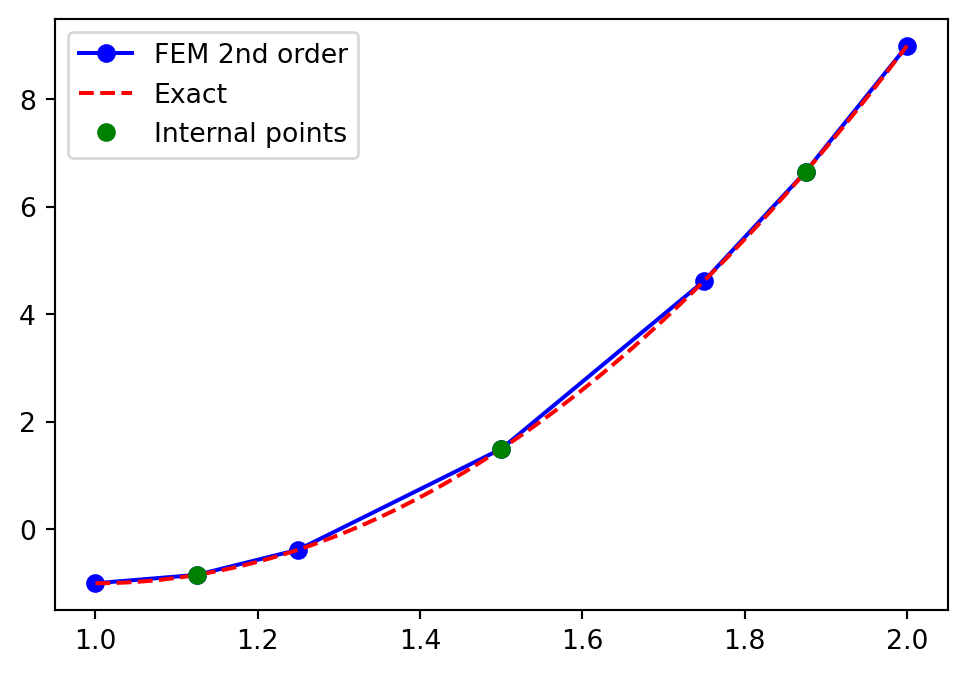
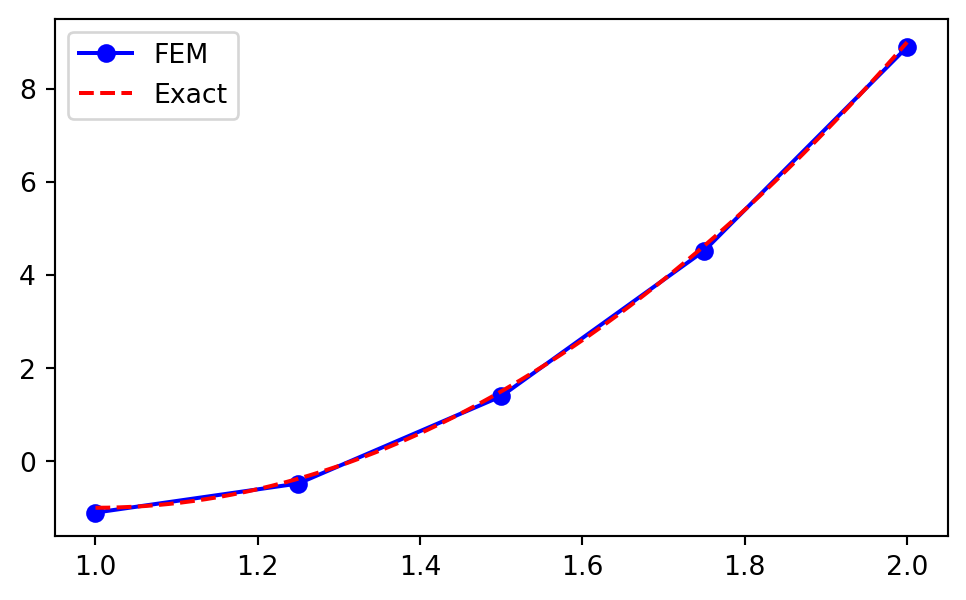
Update documentation

diff --git a/fem.html b/fem.html
@@ -447,7 +447,7 @@ u_N(x) = \sum_{i=0}^N \hat{u}_i \psi_i(x)
 <div class="columns">
 <div class="column">
 <p>5 <strong>global</strong> basis functions</p>
-<div id="f62a4b7b" class="cell" data-execution_count="1">
+<div id="92df35a5" class="cell" data-execution_count="1">
 <div class="cell-output cell-output-display">
 <div>
 <figure>
@@ -458,7 +458,7 @@ u_N(x) = \sum_{i=0}^N \hat{u}_i \psi_i(x)
 </div>
 </div><div class="column">
 <p>2 <strong>local</strong> piecewise linear basis functions</p>
-<div id="a8e6a0e3" class="cell" data-execution_count="2">
+<div id="7c5517d0" class="cell" data-execution_count="2">
 <div class="cell-output cell-output-display">
 <div>
 <figure>
@@ -488,7 +488,7 @@ u_N(x) = \sum_{i=0}^N \hat{u}_i \psi_i(x)
 </section>
 <section id="piecewise-linear-basis-functions-lead-to-piecewise-linear-approximations-small-u_nx" class="slide level2 smaller">
 <h2>Piecewise linear basis functions lead to piecewise linear approximations <span class="math inline">\(\small u_N(x)\)</span></h2>
-<div id="a19b95f5" class="cell" data-execution_count="3">
+<div id="43a07dc0" class="cell" data-execution_count="3">
 <div class="cell-output cell-output-display">
 <div>
 <figure>
@@ -504,8 +504,24 @@ u_N(x) = \sum_{i=0}^N \hat{u}_i \psi_i(x)
 </section>
 <section id="the-finite-element-method-is-especially-well-suited-for-unstructured-meshes-in-complex-geometries" class="slide level2 smaller">
 <h2>The finite element method is especially well suited for unstructured meshes in complex geometries</h2>
-
-<img data-src="./figures/structured-unstructured.png" class="quarto-figure quarto-figure-center r-stretch"><p>But in this course we will learn FEM using first simple meshes that look like the structured.</p>
+<div class="columns">
+<div class="column">
+<h3 id="structured-mesh">Structured mesh</h3>
+<div id="aa5013aa" class="cell" data-execution_count="4">
+<div class="cell-output cell-output-display">
+<div>
+<figure>
+<p><img data-src="fem_files/figure-revealjs/cell-5-output-1.png" width="391" height="389"></p>
+</figure>
+</div>
+</div>
+</div>
+</div><div class="column">
+<h3 id="unstructured-mesh">Unstructured mesh</h3>
+<p><img data-src="./figures/dolfin_mesh.png" height="400"></p>
+</div>
+</div>
+<p>But in this course we will learn FEM using simple structured meshes.</p>
 </section>
 <section id="the-finite-element-mesh" class="slide level2 smaller">
 <h2>The finite element mesh</h2>
@@ -594,11 +610,11 @@ a_{ij} = \sum_{e=0}^{N_e-1} {a}_{ij}^{(e)} =  \sum_{e=0}^{N_e-1} \int_{\Omega^{(
 <div class="column">
 <p>The matrix <span class="math inline">\({A}^{(2)}\)</span> will have only 4 non-zero items. So it is really a waste of memory using an <span class="math inline">\((N+1)\times (N+1)\)</span> matrix.</p>
 </div><div class="column">
-<div id="2a3880c9" class="cell" data-execution_count="4">
+<div id="490ba6c2" class="cell" data-execution_count="5">
 <div class="cell-output cell-output-display">
 <div class="quarto-figure quarto-figure-center">
 <figure>
-<p><img data-src="fem_files/figure-revealjs/cell-5-output-1.png" class="quarto-figure quarto-figure-center" width="167" height="189"></p>
+<p><img data-src="fem_files/figure-revealjs/cell-6-output-1.png" class="quarto-figure quarto-figure-center" width="167" height="189"></p>
 </figure>
 </div>
 </div>
@@ -612,11 +628,11 @@ a_{ij} = \sum_{e=0}^{N_e-1} {a}_{ij}^{(e)} =  \sum_{e=0}^{N_e-1} \int_{\Omega^{(
 <p><span class="math display">\[
 q(e, r) = de+r
 \]</span></p>
-<div id="4107a1e3" class="cell" data-execution_count="5">
+<div id="89935d55" class="cell" data-execution_count="6">
 <div class="cell-output cell-output-display">
 <div class="quarto-figure quarto-figure-center">
 <figure>
-<p><img data-src="fem_files/figure-revealjs/cell-6-output-1.png" class="quarto-figure quarto-figure-center" width="1034" height="241"></p>
+<p><img data-src="fem_files/figure-revealjs/cell-7-output-1.png" class="quarto-figure quarto-figure-center" width="1034" height="241"></p>
 </figure>
 </div>
 </div>
@@ -727,11 +743,11 @@ X_r = -1 + \frac{2r}{d}, \quad r = 0, 1, \ldots, d
 \ell_1(X) = (1-X^2), \quad
 \ell_2(X) = \frac{1}{2}X(1+X)
 \]</span></p>
-<div id="5904afa8" class="cell" data-execution_count="6">
+<div id="97236e2f" class="cell" data-execution_count="7">
 <div class="cell-output cell-output-display">
 <div class="quarto-figure quarto-figure-center">
 <figure>
-<p><img data-src="fem_files/figure-revealjs/cell-7-output-1.png" class="quarto-figure quarto-figure-center" width="702" height="422"></p>
+<p><img data-src="fem_files/figure-revealjs/cell-8-output-1.png" class="quarto-figure quarto-figure-center" width="702" height="422"></p>
 </figure>
 </div>
 </div>
@@ -745,11 +761,11 @@ X_r = -1 + \frac{2r}{d}, \quad r = 0, 1, \ldots, d
 \ell_2(X) = -\frac{27}{16}(X-1)(X+\tfrac{1}{3})(X+1) &amp; \ell_3(X) = \frac{9}{16}(X-\tfrac{1}{3})(X+\tfrac{1}{3})(X+1)
 \end{matrix}
 \]</span></p>
-<div id="2c59bd96" class="cell" data-execution_count="7">
+<div id="eb23c7de" class="cell" data-execution_count="8">
 <div class="cell-output cell-output-display">
 <div class="quarto-figure quarto-figure-center">
 <figure>
-<p><img data-src="fem_files/figure-revealjs/cell-8-output-1.png" class="quarto-figure quarto-figure-center" width="788" height="397"></p>
+<p><img data-src="fem_files/figure-revealjs/cell-9-output-1.png" class="quarto-figure quarto-figure-center" width="788" height="397"></p>
 </figure>
 </div>
 </div>
@@ -797,30 +813,30 @@ X_r = -1 + \frac{2r}{d}, \quad r = 0, 1, \ldots, d
 <section id="sympy-implementation-element-mass-matrix" class="slide level2 smaller">
 <h2>Sympy implementation element mass matrix</h2>
 <p>Linear (<span class="math inline">\(d=1\)</span>)</p>
-<div id="91235ce3" class="cell" data-execution_count="8">
+<div id="291d3326" class="cell" data-execution_count="9">
 <div class="sourceCode cell-code" id="cb1"><pre class="sourceCode numberSource python number-lines code-with-copy"><code class="sourceCode python"><span id="cb1-1"><a></a>h <span class="op">=</span> sp.Symbol(<span class="st">'h'</span>)</span>
 <span id="cb1-2"><a></a>l <span class="op">=</span> Lagrangebasis([<span class="op">-</span><span class="dv">1</span>, <span class="dv">1</span>])</span>
 <span id="cb1-3"><a></a>ae <span class="op">=</span> <span class="kw">lambda</span> r, s: sp.integrate(l[r]<span class="op">*</span>l[s], (x, <span class="op">-</span><span class="dv">1</span>, <span class="dv">1</span>))</span>
 <span id="cb1-4"><a></a>A1e <span class="op">=</span> h<span class="op">/</span><span class="dv">2</span><span class="op">*</span>sp.Matrix([[ae(<span class="dv">0</span>, <span class="dv">0</span>), ae(<span class="dv">0</span>, <span class="dv">1</span>)],[ae(<span class="dv">1</span>, <span class="dv">0</span>), ae(<span class="dv">1</span>, <span class="dv">1</span>)]])</span>
 <span id="cb1-5"><a></a>A1e</span></code><button title="Copy to Clipboard" class="code-copy-button"><i class="bi"></i></button></pre></div>
-<div class="cell-output cell-output-display cell-output-markdown" data-execution_count="148">
+<div class="cell-output cell-output-display cell-output-markdown" data-execution_count="125">
 <p><span class="math inline">\(\displaystyle \left[\begin{matrix}\frac{h}{3} &amp; \frac{h}{6}\\\frac{h}{6} &amp; \frac{h}{3}\end{matrix}\right]\)</span></p>
 </div>
 </div>
 <p>Quadratic (<span class="math inline">\(d=2\)</span>)</p>
-<div id="fdd066d8" class="cell" data-execution_count="9">
+<div id="09782420" class="cell" data-execution_count="10">
 <div class="sourceCode cell-code" id="cb2"><pre class="sourceCode numberSource python number-lines code-with-copy"><code class="sourceCode python"><span id="cb2-1"><a></a>l <span class="op">=</span> Lagrangebasis([<span class="op">-</span><span class="dv">1</span>, <span class="dv">0</span>, <span class="dv">1</span>])</span>
 <span id="cb2-2"><a></a>ae <span class="op">=</span> <span class="kw">lambda</span> r, s: sp.integrate(l[r]<span class="op">*</span>l[s], (x, <span class="op">-</span><span class="dv">1</span>, <span class="dv">1</span>))</span>
 <span id="cb2-3"><a></a>A2e <span class="op">=</span> h<span class="op">/</span><span class="dv">2</span><span class="op">*</span>sp.Matrix(np.array([[ae(i, j) <span class="cf">for</span> i <span class="kw">in</span> <span class="bu">range</span>(<span class="dv">3</span>) <span class="cf">for</span> j <span class="kw">in</span> <span class="bu">range</span>(<span class="dv">3</span>)]]).reshape(<span class="dv">3</span>, <span class="dv">3</span>))</span>
 <span id="cb2-4"><a></a>A2e</span></code><button title="Copy to Clipboard" class="code-copy-button"><i class="bi"></i></button></pre></div>
-<div class="cell-output cell-output-display cell-output-markdown" data-execution_count="149">
+<div class="cell-output cell-output-display cell-output-markdown" data-execution_count="126">
 <p><span class="math inline">\(\displaystyle \left[\begin{matrix}\frac{2 h}{15} &amp; \frac{h}{15} &amp; - \frac{h}{30}\\\frac{h}{15} &amp; \frac{8 h}{15} &amp; \frac{h}{15}\\- \frac{h}{30} &amp; \frac{h}{15} &amp; \frac{2 h}{15}\end{matrix}\right]\)</span></p>
 </div>
 </div>
 </section>
 <section id="complete-assembly-implementation" class="slide level2 smaller">
 <h2>Complete assembly implementation</h2>
-<div id="51771b16" class="cell" data-execution_count="10">
+<div id="8a05b5dd" class="cell" data-execution_count="11">
 <div class="sourceCode cell-code" id="cb3"><pre class="sourceCode numberSource python number-lines code-with-copy"><code class="sourceCode python"><span id="cb3-1"><a></a>Ae <span class="op">=</span> [A1e, A2e] <span class="co"># previously computed</span></span>
 <span id="cb3-2"><a></a></span>
 <span id="cb3-3"><a></a><span class="kw">def</span> get_element_boundaries(xj, e, d<span class="op">=</span><span class="dv">1</span>):</span>
@@ -845,7 +861,7 @@ X_r = -1 + \frac{2r}{d}, \quad r = 0, 1, \ldots, d
 <span id="cb3-22"><a></a>        A[s0, s0] <span class="op">+=</span> np.array(Ae[d<span class="op">-</span><span class="dv">1</span>].subs(h, hj), dtype<span class="op">=</span><span class="bu">float</span>)</span>
 <span id="cb3-23"><a></a>    <span class="cf">return</span> A</span></code><button title="Copy to Clipboard" class="code-copy-button"><i class="bi"></i></button></pre></div>
 </div>
-<div id="74a930c4" class="cell columns column-output-location" data-execution_count="11">
+<div id="b0d4c9fe" class="cell columns column-output-location" data-execution_count="12">
 <div class="column">
 <div class="sourceCode cell-code" id="cb4"><pre class="sourceCode numberSource python number-lines code-with-copy"><code class="sourceCode python"><span id="cb4-1"><a></a>N <span class="op">=</span> <span class="dv">4</span></span>
 <span id="cb4-2"><a></a>xj <span class="op">=</span> np.linspace(<span class="dv">1</span>, <span class="dv">2</span>, N<span class="op">+</span><span class="dv">1</span>)</span>
@@ -864,7 +880,7 @@ X_r = -1 + \frac{2r}{d}, \quad r = 0, 1, \ldots, d
 </section>
 <section id="higher-order-mass-matrix" class="slide level2 smaller">
 <h2>Higher order mass matrix</h2>
-<div id="b3400e90" class="cell" data-execution_count="12">
+<div id="7c76b5a1" class="cell" data-execution_count="13">
 <div class="sourceCode cell-code" id="cb6"><pre class="sourceCode numberSource python number-lines code-with-copy"><code class="sourceCode python"><span id="cb6-1"><a></a>N <span class="op">=</span> <span class="dv">8</span></span>
 <span id="cb6-2"><a></a>xj <span class="op">=</span> np.linspace(<span class="dv">1</span>, <span class="dv">2</span>, N<span class="op">+</span><span class="dv">1</span>)</span>
 <span id="cb6-3"><a></a>A <span class="op">=</span> assemble_mass(xj, d<span class="op">=</span><span class="dv">2</span>)</span>
@@ -901,11 +917,11 @@ X_r = -1 + \frac{2r}{d}, \quad r = 0, 1, \ldots, d
 </div>
 </div>
 </div><div class="column">
-<div id="ff8fdd12" class="cell" data-execution_count="13">
+<div id="329e68f2" class="cell" data-execution_count="14">
 <div class="cell-output cell-output-display">
 <div class="quarto-figure quarto-figure-left">
 <figure>
-<p><img data-src="fem_files/figure-revealjs/cell-14-output-1.png" class="quarto-figure quarto-figure-left" width="315" height="315"></p>
+<p><img data-src="fem_files/figure-revealjs/cell-15-output-1.png" class="quarto-figure quarto-figure-left" width="315" height="315"></p>
 </figure>
 </div>
 </div>
@@ -958,7 +974,7 @@ b_{q(e, r)} \mathrel{+}= \tilde{b}_r^{(e)}
 </section>
 <section id="implementation-small-boldsymbolbe" class="slide level2 smaller">
 <h2>Implementation <span class="math inline">\(\small \boldsymbol{b}^{(e)}\)</span></h2>
-<div id="fce704d3" class="cell" data-execution_count="14">
+<div id="c5dfcd4f" class="cell" data-execution_count="15">
 <div class="sourceCode cell-code" id="cb8" data-code-line-numbers="|19-24"><pre class="sourceCode numberSource python number-lines code-with-copy"><code class="sourceCode python"><span id="cb8-1"><a></a><span class="kw">def</span> map_true_domain(xj, e, d<span class="op">=</span><span class="dv">1</span>, x<span class="op">=</span>x): <span class="co"># return x(X)</span></span>
 <span id="cb8-2"><a></a>    xL, xR <span class="op">=</span> get_element_boundaries(xj, e, d<span class="op">=</span>d)</span>
 <span id="cb8-3"><a></a>    hj <span class="op">=</span> get_element_length(xj, e, d<span class="op">=</span>d)</span>
@@ -1004,7 +1020,7 @@ b_{q(e, r)} \mathrel{+}= \tilde{b}_r^{(e)}
 <section id="example-small-ux-10x-12-1-x-in-1-2" class="slide level2 smaller">
 <h2>Example: <span class="math inline">\(\small u(x) = 10(x-1)^2-1, x \in [1, 2]\)</span></h2>
 <p>Use the previously implemented <code>assemble_mass</code> and <code>assemble_b</code> to find the approximation of <span class="math inline">\(u(x)\)</span> using piecewise linear functions and FEM:</p>
-<div id="f7572bcc" class="cell columns column-output-location" data-execution_count="15">
+<div id="ae388d63" class="cell columns column-output-location" data-execution_count="16">
 <div class="column">
 <div class="sourceCode cell-code" id="cb9"><pre class="sourceCode numberSource python number-lines code-with-copy"><code class="sourceCode python"><span id="cb9-1"><a></a><span class="kw">def</span> assemble(u, N, domain<span class="op">=</span>(<span class="op">-</span><span class="dv">1</span>, <span class="dv">1</span>), d<span class="op">=</span><span class="dv">1</span>, xj<span class="op">=</span><span class="va">None</span>):</span>
 <span id="cb9-2"><a></a>    mesh <span class="op">=</span> np.linspace(domain[<span class="dv">0</span>], domain[<span class="dv">1</span>], N<span class="op">+</span><span class="dv">1</span>) <span class="cf">if</span> xj <span class="kw">is</span> <span class="va">None</span> <span class="cf">else</span> xj</span>
@@ -1024,7 +1040,7 @@ b_{q(e, r)} \mathrel{+}= \tilde{b}_r^{(e)}
 <div class="cell-output cell-output-display">
 <div>
 <figure>
-<p><img data-src="fem_files/figure-revealjs/cell-16-output-1.png" width="483" height="300"></p>
+<p><img data-src="fem_files/figure-revealjs/cell-17-output-1.png" width="483" height="300"></p>
 </figure>
 </div>
 </div>
@@ -1053,7 +1069,7 @@ b_{q(e, r)} \mathrel{+}= \tilde{b}_r^{(e)}
 <p><span class="math display">\[
 x_{2i} = 1+(\cos(2 \pi i / N) + 1)/2 \quad \text{and} \quad x_{2i+1} = \frac{x_{2i}+x_{2(i+1)}}{2}
 \]</span></p>
-<div id="493eefb4" class="cell columns column-output-location" data-execution_count="16">
+<div id="b1670d25" class="cell columns column-output-location" data-execution_count="17">
 <div class="column">
 <div class="sourceCode cell-code" id="cb10"><pre class="sourceCode numberSource python number-lines code-with-copy"><code class="sourceCode python"><span id="cb10-1"><a></a>N <span class="op">=</span> <span class="dv">6</span></span>
 <span id="cb10-2"><a></a>xj <span class="op">=</span> np.zeros(N<span class="op">+</span><span class="dv">1</span>)</span>
@@ -1070,7 +1086,7 @@ x_{2i} = 1+(\cos(2 \pi i / N) + 1)/2 \quad \text{and} \quad x_{2i+1} = \frac{x_{
 <div class="cell-output cell-output-display">
 <div>
 <figure>
-<p><img data-src="fem_files/figure-revealjs/cell-17-output-1.png" width="483" height="337"></p>
+<p><img data-src="fem_files/figure-revealjs/cell-18-output-1.png" width="483" height="337"></p>
 </figure>
 </div>
 </div>
@@ -1088,7 +1104,7 @@ u_N(x) = \sum_{j=0}^N\hat{u}_j \psi_j(x)
 <p><span class="math display">\[
 u_N(x) = \sum_{r=0}^d \hat{u}_{q(e, r)} \ell_{r}(X), \quad x \in \Omega^{(e)}
 \]</span></p>
-<div id="7961e5b6" class="cell" data-execution_count="17">
+<div id="f22dacb9" class="cell" data-execution_count="18">
 <div class="sourceCode cell-code" id="cb11"><pre class="sourceCode numberSource python number-lines code-with-copy"><code class="sourceCode python"><span id="cb11-1"><a></a><span class="kw">def</span> fe_evaluate(uh, p, xj, d<span class="op">=</span><span class="dv">1</span>):</span>
 <span id="cb11-2"><a></a>    l <span class="op">=</span> Lagrangebasis(np.linspace(<span class="op">-</span><span class="dv">1</span>, <span class="dv">1</span>, d<span class="op">+</span><span class="dv">1</span>), sympy<span class="op">=</span><span class="va">False</span>)</span>
 <span id="cb11-3"><a></a>    elem <span class="op">=</span> <span class="bu">max</span>(<span class="dv">0</span>, np.argmax(p <span class="op">&lt;=</span> xj[::d])<span class="op">-</span><span class="dv">1</span>) <span class="co"># find element containing p</span></span>
@@ -1096,7 +1112,7 @@ u_N(x) = \sum_{r=0}^d \hat{u}_{q(e, r)} \ell_{r}(X), \quad x \in \Omega^{(e)}
 <span id="cb11-5"><a></a>    <span class="cf">return</span> Lagrangefunction(uh[d<span class="op">*</span>elem:d<span class="op">*</span>(elem<span class="op">+</span><span class="dv">1</span>)<span class="op">+</span><span class="dv">1</span>], l)(Xx)</span>
 <span id="cb11-6"><a></a></span>
 <span id="cb11-7"><a></a>fe_evaluate(uh, <span class="fl">1.2</span>, xj, d<span class="op">=</span><span class="dv">2</span>), <span class="dv">10</span><span class="op">*</span>(<span class="fl">1.2</span><span class="op">-</span><span class="dv">1</span>)<span class="op">**</span><span class="dv">2</span><span class="op">-</span><span class="dv">1</span></span></code><button title="Copy to Clipboard" class="code-copy-button"><i class="bi"></i></button></pre></div>
-<div class="cell-output cell-output-display" data-execution_count="157">
+<div class="cell-output cell-output-display" data-execution_count="134">
 <pre><code>(-0.600000000000000, -0.6000000000000002)</code></pre>
 </div>
 </div>
@@ -1107,7 +1123,7 @@ u_N(x) = \sum_{r=0}^d \hat{u}_{q(e, r)} \ell_{r}(X), \quad x \in \Omega^{(e)}
 u_N(x_i) = \sum_{r=0}^d \hat{u}_{q(e, r)} \ell_{r}(X(x_i)), \quad x \in \Omega^{(e)}, \quad i=0, 1, \ldots, N_d-1
 \]</span></p>
 <p>Just loop over scalar code for each point</p>
-<div id="d706c5d3" class="cell" data-execution_count="18">
+<div id="754aa137" class="cell" data-execution_count="19">
 <div class="sourceCode cell-code" id="cb13"><pre class="sourceCode numberSource python number-lines code-with-copy"><code class="sourceCode python"><span id="cb13-1"><a></a><span class="kw">def</span> fe_evaluate_v(uh, pv, xj, d<span class="op">=</span><span class="dv">1</span>):</span>
 <span id="cb13-2"><a></a>    uj <span class="op">=</span> np.zeros(<span class="bu">len</span>(pv))</span>
 <span id="cb13-3"><a></a>    <span class="cf">for</span> i, p <span class="kw">in</span> <span class="bu">enumerate</span>(pv):</span>
@@ -1115,7 +1131,7 @@ u_N(x_i) = \sum_{r=0}^d \hat{u}_{q(e, r)} \ell_{r}(X(x_i)), \quad x \in \Omega^{
 </div>
 <div class="fragment">
 <p>Alternatively, use vectorization, but not really straightforward:</p>
-<div id="ad325fb3" class="cell" data-execution_count="19">
+<div id="7ccda591" class="cell" data-execution_count="20">
 <div class="sourceCode cell-code" id="cb14"><pre class="sourceCode numberSource python number-lines code-with-copy"><code class="sourceCode python"><span id="cb14-1"><a></a><span class="kw">def</span> fe_evaluate_v(uh, pv, xj, d<span class="op">=</span><span class="dv">1</span>):</span>
 <span id="cb14-2"><a></a>    l <span class="op">=</span> Lagrangebasis(np.linspace(<span class="op">-</span><span class="dv">1</span>, <span class="dv">1</span>, d<span class="op">+</span><span class="dv">1</span>), sympy<span class="op">=</span><span class="va">False</span>)</span>
 <span id="cb14-3"><a></a>    <span class="co"># Find points inside elements</span></span>
@@ -1136,7 +1152,7 @@ u_N(x_i) = \sum_{r=0}^d \hat{u}_{q(e, r)} \ell_{r}(X(x_i)), \quad x \in \Omega^{
 <p>Compute <span class="math inline">\(L^2(\Omega)\)</span> error and compare with <strong>global</strong> Chebyshev and Legendre methods</p>
 <div class="columns">
 <div class="column">
-<div id="3504c570" class="cell" data-execution_count="20">
+<div id="4172168a" class="cell" data-execution_count="21">
 <div class="sourceCode cell-code" id="cb15"><pre class="sourceCode numberSource python number-lines code-with-copy"><code class="sourceCode python"><span id="cb15-1"><a></a><span class="kw">def</span> L2_error(uh, ue, xj, d<span class="op">=</span><span class="dv">1</span>):</span>
 <span id="cb15-2"><a></a>    yj <span class="op">=</span> np.linspace(<span class="op">-</span><span class="dv">1</span>, <span class="dv">1</span>, <span class="dv">4</span><span class="op">*</span><span class="bu">len</span>(xj))</span>
 <span id="cb15-3"><a></a>    uhj <span class="op">=</span> fe_evaluate_v(uh, yj, xj, d<span class="op">=</span>d)</span>
@@ -1158,11 +1174,11 @@ u_N(x_i) = \sum_{r=0}^d \hat{u}_{q(e, r)} \ell_{r}(X(x_i)), \quad x \in \Omega^{
 <span id="cb15-19"><a></a>    err2.append(L2_error(uh2, ue, xj, <span class="dv">2</span>))</span></code><button title="Copy to Clipboard" class="code-copy-button"><i class="bi"></i></button></pre></div>
 </div>
 </div><div class="column">
-<div id="9bd5d9f1" class="cell" data-execution_count="21">
+<div id="9ee2d290" class="cell" data-execution_count="22">
 <div class="cell-output cell-output-display">
 <div>
 <figure>
-<p><img data-src="fem_files/figure-revealjs/cell-22-output-1.png" width="438" height="286"></p>
+<p><img data-src="fem_files/figure-revealjs/cell-23-output-1.png" width="438" height="286"></p>
 </figure>
 </div>
 </div>
@@ -1251,7 +1267,7 @@ u_N(x_i) = \sum_{r=0}^d \hat{u}_{q(e, r)} \ell_{r}(X(x_i)), \quad x \in \Omega^{
 </div>
 </div><div class="column">
 <h3 id="our-implementation">Our implementation</h3>
-<div id="377abe3f" class="cell" data-execution_count="22">
+<div id="a4709e51" class="cell" data-execution_count="23">
 <div class="sourceCode cell-code" id="cb22"><pre class="sourceCode numberSource python number-lines code-with-copy"><code class="sourceCode python"><span id="cb22-1"><a></a>N <span class="op">=</span> <span class="dv">4</span> </span>
 <span id="cb22-2"><a></a>A1, b1 <span class="op">=</span> assemble(u, N, (<span class="op">-</span><span class="dv">1</span>, <span class="dv">1</span>), <span class="dv">1</span>)</span>
 <span id="cb22-3"><a></a>uN <span class="op">=</span> np.linalg.inv(A1) <span class="op">@</span> b1</span>
@@ -1262,7 +1278,7 @@ u_N(x_i) = \sum_{r=0}^d \hat{u}_{q(e, r)} \ell_{r}(X(x_i)), \quad x \in \Omega^{
 <div class="cell-output cell-output-display">
 <div>
 <figure>
-<p><img data-src="fem_files/figure-revealjs/cell-23-output-1.png" width="459" height="322"></p>
+<p><img data-src="fem_files/figure-revealjs/cell-24-output-1.png" width="459" height="322"></p>
 </figure>
 </div>
 </div>
@@ -1277,8 +1293,8 @@ u_N(x_i) = \sum_{r=0}^d \hat{u}_{q(e, r)} \ell_{r}(X(x_i)), \quad x \in \Omega^{
 <div class="column">
 <h3 id="fenics-1">FEniCS</h3>
 <div class="sourceCode" id="cb23"><pre class="sourceCode numberSource python number-lines code-with-copy"><code class="sourceCode python"><span id="cb23-1"><a></a>A.to_dense()</span></code><button title="Copy to Clipboard" class="code-copy-button"><i class="bi"></i></button></pre></div>
-<div id="fd443d24" class="cell" data-execution_count="23">
-<div class="cell-output cell-output-display" data-execution_count="163">
+<div id="eb54f2ab" class="cell" data-execution_count="24">
+<div class="cell-output cell-output-display" data-execution_count="140">
 <pre><code>array([[0.1667, 0.0833, 0.    , 0.    , 0.    ],
        [0.0833, 0.3333, 0.0833, 0.    , 0.    ],
        [0.    , 0.0833, 0.3333, 0.0833, 0.    ],
@@ -1287,22 +1303,22 @@ u_N(x_i) = \sum_{r=0}^d \hat{u}_{q(e, r)} \ell_{r}(X(x_i)), \quad x \in \Omega^{
 </div>
 </div>
 <div class="sourceCode" id="cb25"><pre class="sourceCode numberSource python number-lines code-with-copy"><code class="sourceCode python"><span id="cb25-1"><a></a>b.array</span></code><button title="Copy to Clipboard" class="code-copy-button"><i class="bi"></i></button></pre></div>
-<div id="c6345a0a" class="cell" data-execution_count="24">
-<div class="cell-output cell-output-display" data-execution_count="164">
+<div id="79ca1d06" class="cell" data-execution_count="25">
+<div class="cell-output cell-output-display" data-execution_count="141">
 <pre><code>array([0.4892, 1.1865, 1.3317, 1.1865, 0.4892])</code></pre>
 </div>
 </div>
 <div class="sourceCode" id="cb27"><pre class="sourceCode numberSource python number-lines code-with-copy"><code class="sourceCode python"><span id="cb27-1"><a></a>uh.x.array</span></code><button title="Copy to Clipboard" class="code-copy-button"><i class="bi"></i></button></pre></div>
-<div id="4820a34b" class="cell" data-execution_count="25">
-<div class="cell-output cell-output-display" data-execution_count="165">
+<div id="7da90dd9" class="cell" data-execution_count="26">
+<div class="cell-output cell-output-display" data-execution_count="142">
 <pre><code>array([1.7169, 2.4361, 2.7772, 2.4361, 1.7169])</code></pre>
 </div>
 </div>
 </div><div class="column">
 <h3 id="sympynumpy">Sympy/Numpy</h3>
-<div id="b3ddda6a" class="cell" data-execution_count="26">
+<div id="9be36515" class="cell" data-execution_count="27">
 <div class="sourceCode cell-code" id="cb29"><pre class="sourceCode numberSource python number-lines code-with-copy"><code class="sourceCode python"><span id="cb29-1"><a></a>A1</span></code><button title="Copy to Clipboard" class="code-copy-button"><i class="bi"></i></button></pre></div>
-<div class="cell-output cell-output-display" data-execution_count="166">
+<div class="cell-output cell-output-display" data-execution_count="143">
 <pre><code>array([[0.1667, 0.0833, 0.    , 0.    , 0.    ],
        [0.0833, 0.3333, 0.0833, 0.    , 0.    ],
        [0.    , 0.0833, 0.3333, 0.0833, 0.    ],
@@ -1310,15 +1326,15 @@ u_N(x_i) = \sum_{r=0}^d \hat{u}_{q(e, r)} \ell_{r}(X(x_i)), \quad x \in \Omega^{
        [0.    , 0.    , 0.    , 0.0833, 0.1667]])</code></pre>
 </div>
 </div>
-<div id="a091a92b" class="cell" data-execution_count="27">
+<div id="c70a59c6" class="cell" data-execution_count="28">
 <div class="sourceCode cell-code" id="cb31"><pre class="sourceCode numberSource python number-lines code-with-copy"><code class="sourceCode python"><span id="cb31-1"><a></a>b1</span></code><button title="Copy to Clipboard" class="code-copy-button"><i class="bi"></i></button></pre></div>
-<div class="cell-output cell-output-display" data-execution_count="167">
+<div class="cell-output cell-output-display" data-execution_count="144">
 <pre><code>array([0.4892, 1.1865, 1.3317, 1.1865, 0.4892])</code></pre>
 </div>
 </div>
-<div id="8e236956" class="cell" data-execution_count="28">
+<div id="89a9db50" class="cell" data-execution_count="29">
 <div class="sourceCode cell-code" id="cb33"><pre class="sourceCode numberSource python number-lines code-with-copy"><code class="sourceCode python"><span id="cb33-1"><a></a>uN</span></code><button title="Copy to Clipboard" class="code-copy-button"><i class="bi"></i></button></pre></div>
-<div class="cell-output cell-output-display" data-execution_count="168">
+<div class="cell-output cell-output-display" data-execution_count="145">
 <pre><code>array([1.7169, 2.4361, 2.7772, 2.4361, 1.7169])</code></pre>
 </div>
 </div>
